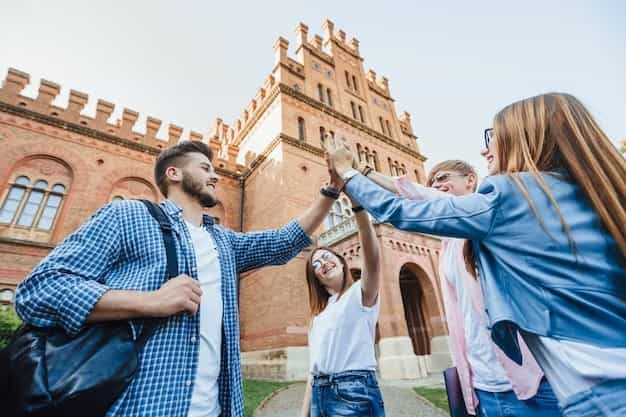
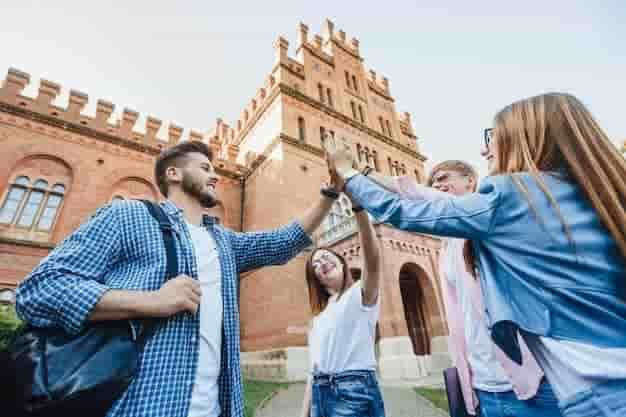
compressed images

diff --git a/app/routes/_index.tsx b/app/routes/_index.tsx
@@ -14,12 +14,12 @@ import { cn, validationAction } from '~/lib/utils';
 import { json, type ActionFunctionArgs } from '@remix-run/node';
 import { GetInTouchFormSchema } from '~/data/schema';
 import type { GetInTouchFormInput } from '~/pages/index/components/get-in-touch-form';
-import homePageHeader from 'app/images/educom-home-page-pageheader.jpeg';
+import homePageHeader from 'app/images/educom-home-page-pageheader.jpg';
 import { homePageTestimonials } from '~/data/testimonials.data';
-import aboutUsFirst from '~/images/about-us-1.jpeg';
-import aboutUsSecond from '~/images/about-us-2.jpeg';
-import aboutUsThird from '~/images/about-us-3.jpeg';
-import aboutUsFourth from '~/images/about-us-4.jpeg';
+import aboutUsFirst from '~/images/about-us-1.jpg';
+import aboutUsSecond from '~/images/about-us-2.jpg';
+import aboutUsThird from '~/images/about-us-3.jpg';
+import aboutUsFourth from '~/images/about-us-4.jpg';
 
 import { navConfig } from '~/config/nav';
 

diff --git a/app/components/album-card.tsx b/app/components/album-card.tsx
@@ -23,11 +23,11 @@ export function AlbumCard({
   ...props
 }: AlbumCardProps) {
   return (
-    <Card {...props} className={className}>
+    <Card {...props} className={cn(className, "flex flex-col justify-center")}>
       <CardHeader
         className={cn('p-0', {
-          'h-36': width === 150,
-          'h-60': width === 250,
+          'h-36 md:h-auto': width === 150,
+          'h-60 md:h-auto': width === 250,
         })}
       >
         <div className="overflow-hidden rounded-md ">
